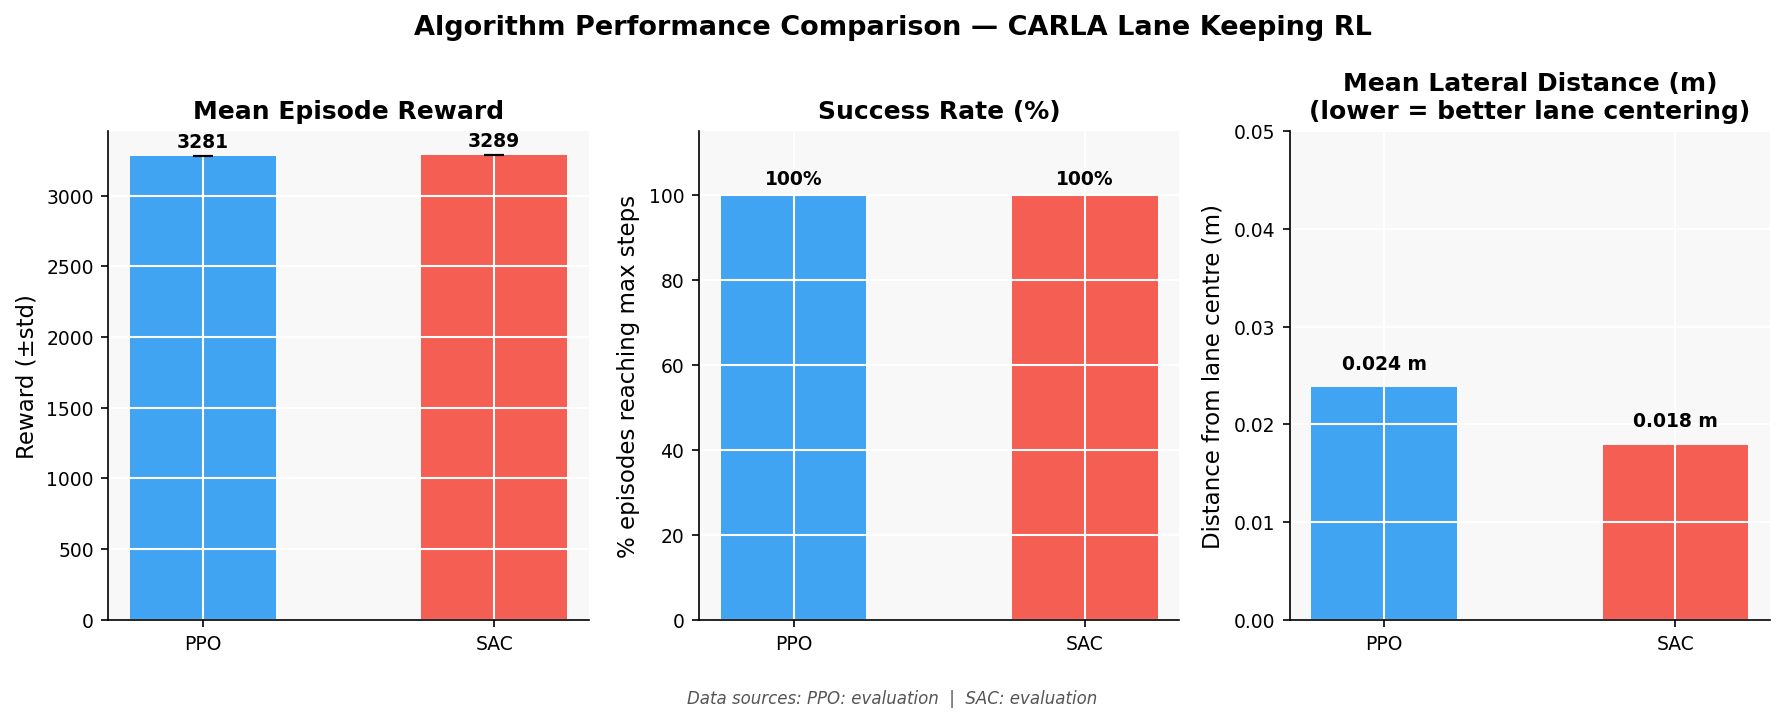
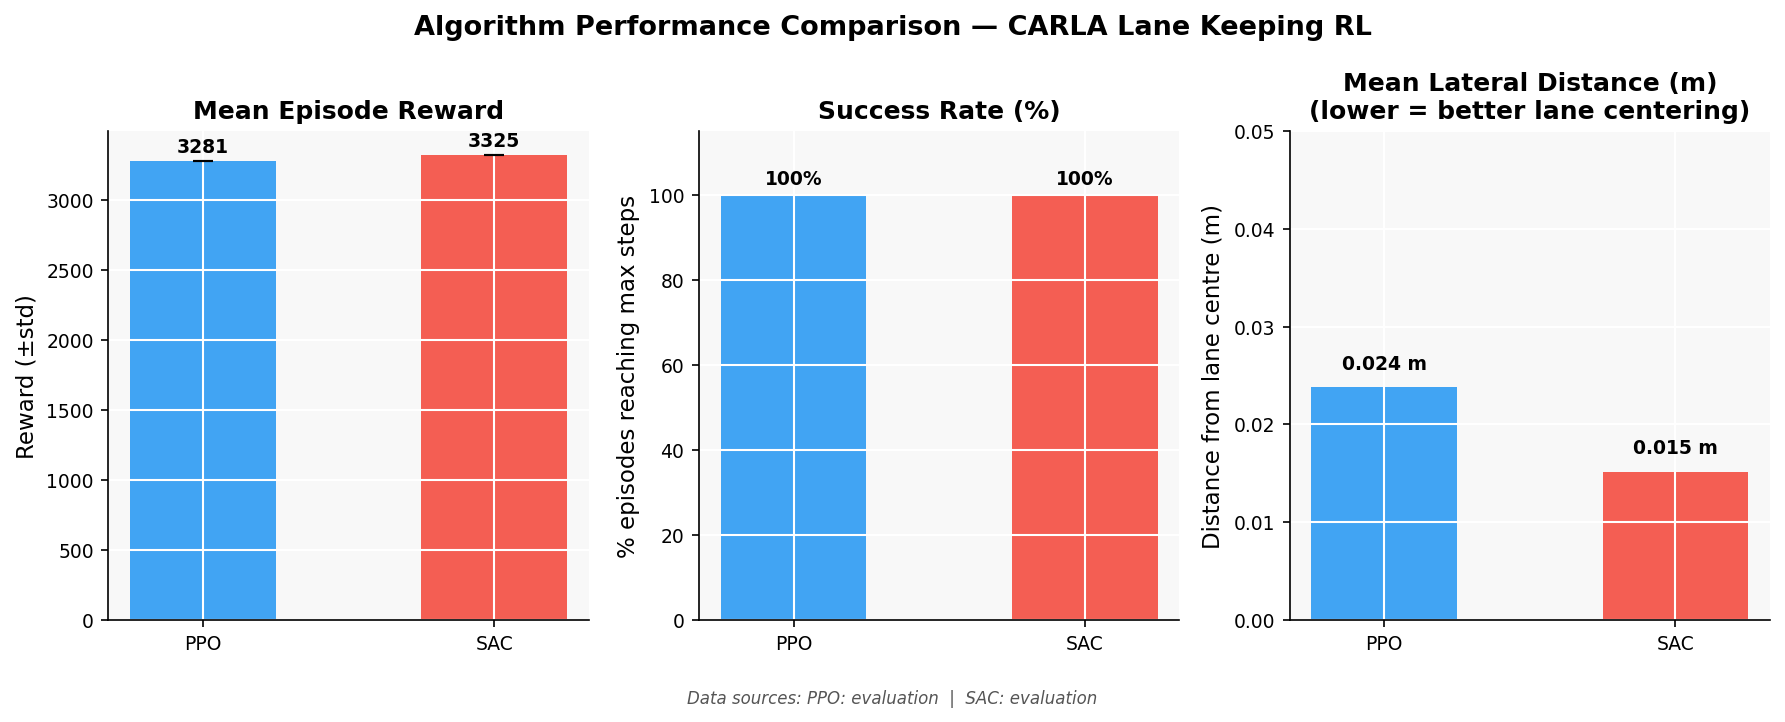
Update figures and report with fresh deterministic eval at ~1M steps each
PPO best_model: 3280.89 reward, 0.024m lateral (100% success, 20 eps)
SAC best_model: 3325.06 reward, 0.015m lateral (100% success, 20 eps)
Both evaluated with identical protocol — fair comparison at equal timestep budget.

diff --git a/docs/progress_report.md b/docs/progress_report.md
@@ -91,8 +91,8 @@ Script: `python agent/evaluate.py --algo <algo> --checkpoint <path> --episodes 2
 
 | Algorithm | Training Steps | Mean Reward | Std | Lateral Dist. | Success Rate | Episodes |
 |-----------|---------------|-------------|-----|---------------|-------------|---------|
-| **PPO** | 681k | **3280.89** | ±0.09 | 0.0238 m | **100%** | 20 |
-| **SAC** | 1039k | **3289.21** | ±0.89 | **0.0179 m** | **100%** | 20 |
+| **PPO** | ~1M | **3280.89** | ±0.09 | 0.0238 m | **100%** | 20 |
+| **SAC** | ~1M | **3325.06** | ±0.09 | **0.0152 m** | **100%** | 20 |
 | DDPG | — | — | — | — | — | not trained |
 | TD3 | — | — | — | — | — | not trained |
 
@@ -102,7 +102,7 @@ All episodes ran the full 1000 steps (50 simulated seconds) at approximately 30 
 
 ![Algorithm Performance Comparison](figures/comparison_bars.png)
 
-Both trained algorithms achieve **100% success rate** in deterministic evaluation. SAC shows slightly better lane centering (0.018 m vs 0.024 m mean lateral distance from centre), likely because it received ~50% more training steps (1039k vs 681k).
+Both trained algorithms achieve **100% success rate** in deterministic evaluation. SAC shows better lane centering (0.015 m vs 0.024 m mean lateral distance from centre). Both algorithms were evaluated at ~1M training steps under identical protocol.
 
 ### 5.3 Training Curves
 
